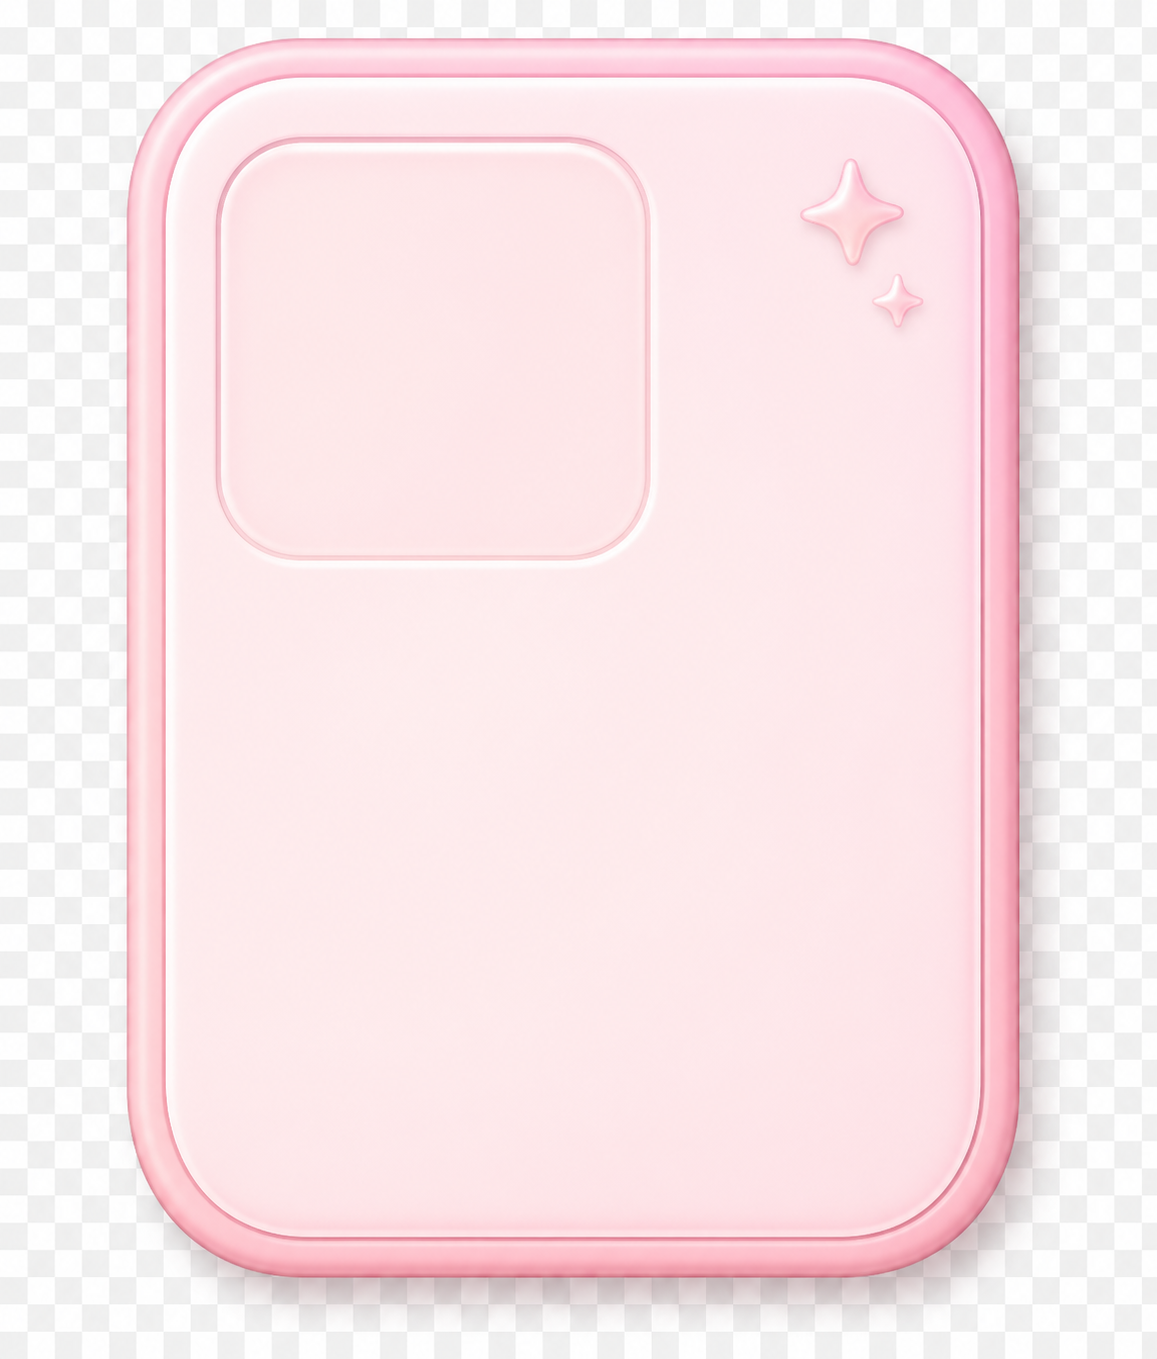
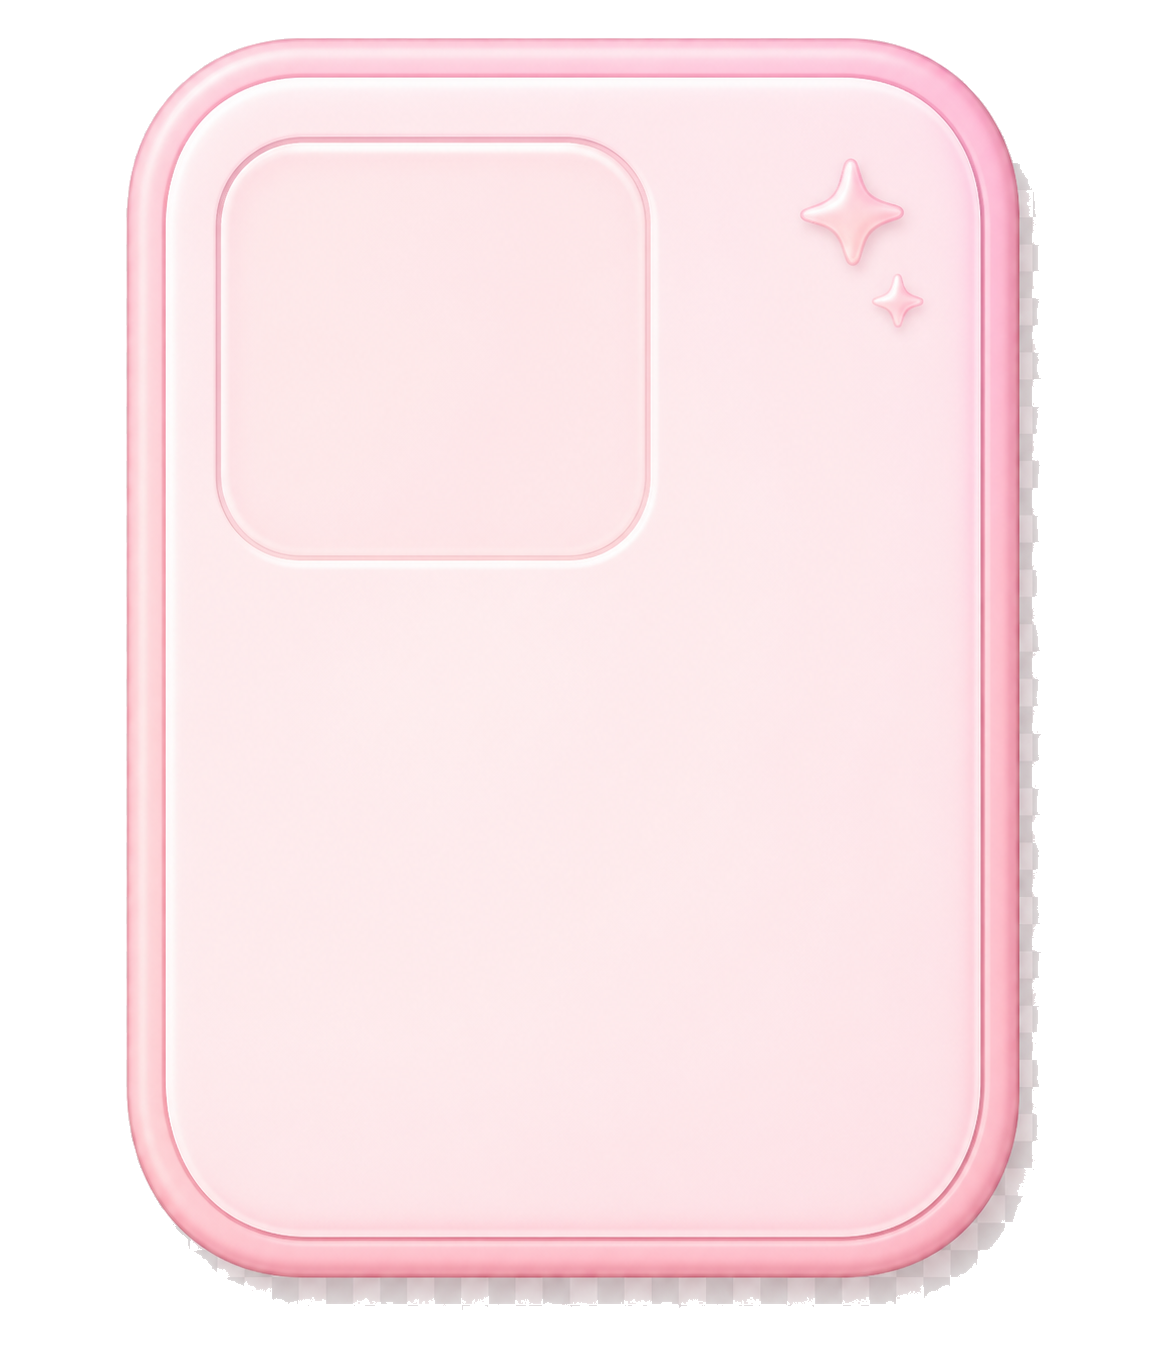
Fix UI PNG transparency

diff --git a/tools/fix_transparency.py b/tools/fix_transparency.py
@@ -1,0 +1,283 @@
+#!/usr/bin/env python3
+from __future__ import annotations
+
+import argparse
+import shutil
+from collections import deque
+from pathlib import Path
+from typing import Any
+
+import numpy as np
+from PIL import Image, ImageFilter
+
+
+RESOURCE_PATHS = [
+    "assets/icons/status/status_hunger.png",
+    "assets/icons/status/status_mood.png",
+    "assets/icons/status/status_energy.png",
+    "assets/icons/status/status_clean.png",
+    "assets/icons/actions/action_feed.png",
+    "assets/icons/actions/action_play.png",
+    "assets/icons/actions/action_pet.png",
+    "assets/icons/actions/action_bath.png",
+    "assets/icons/actions/action_sleep.png",
+    "assets/ui/status/status_card_hunger_bg.png",
+    "assets/ui/status/status_card_mood_bg.png",
+    "assets/ui/status/status_card_energy_bg.png",
+    "assets/ui/status/status_card_clean_bg.png",
+    "assets/ui/actions/action_button_feed_bg.png",
+    "assets/ui/actions/action_button_play_bg.png",
+    "assets/ui/actions/action_button_pet_bg.png",
+    "assets/ui/actions/action_button_bath_bg.png",
+    "assets/ui/actions/action_button_sleep_bg.png",
+    "assets/icons/common/sparkle_gold.png",
+    "assets/icons/common/sparkle_pink.png",
+    "assets/icons/common/sparkle_blue.png",
+    "assets/icons/common/sparkle_green.png",
+    "assets/icons/common/sparkle_purple.png",
+]
+
+
+REPORT_PATH = Path("docs/ui_transparency_fix_report.md")
+
+
+def load_rgba(path: Path) -> Image.Image:
+    return Image.open(path).convert("RGBA")
+
+
+def alpha_extrema(img: Image.Image) -> tuple[int, int]:
+    return img.getchannel("A").getextrema()
+
+
+def color_distance(a: np.ndarray | tuple[int, int, int], b: np.ndarray | tuple[int, int, int]) -> float:
+    aa = np.asarray(a, dtype=np.int32)
+    bb = np.asarray(b, dtype=np.int32)
+    return float(np.sqrt(np.sum((aa - bb) ** 2)))
+
+
+def edge_pixels(arr: np.ndarray, sample_width: int) -> np.ndarray:
+    h, w, _ = arr.shape
+    sw = max(1, min(sample_width, h // 2 or 1, w // 2 or 1))
+    return np.concatenate(
+        [
+            arr[:sw, :, :3].reshape(-1, 3),
+            arr[-sw:, :, :3].reshape(-1, 3),
+            arr[:, :sw, :3].reshape(-1, 3),
+            arr[:, -sw:, :3].reshape(-1, 3),
+        ],
+        axis=0,
+    )
+
+
+def estimate_edge_backgrounds(arr: np.ndarray, sample_width: int = 8) -> list[tuple[int, int, int]]:
+    edges = edge_pixels(arr, sample_width)
+    saturation = edges.max(axis=1) - edges.min(axis=1)
+    light = edges[(saturation <= 8) & (edges.mean(axis=1) >= 210)]
+    if len(light) == 0:
+        return []
+
+    candidates: list[tuple[int, int, int]] = []
+    for q in (5, 20, 35, 50, 65, 80, 95):
+        candidate = tuple(int(v) for v in np.percentile(light, q, axis=0))
+        if all(color_distance(candidate, existing) > 7 for existing in candidates):
+            candidates.append(candidate)
+
+    mean = tuple(int(v) for v in np.mean(light, axis=0))
+    if all(color_distance(mean, existing) > 7 for existing in candidates):
+        candidates.append(mean)
+    return candidates
+
+
+def light_background_mask(rgb: np.ndarray) -> np.ndarray:
+    channel_min = rgb.min(axis=2)
+    channel_max = rgb.max(axis=2)
+    saturation = channel_max - channel_min
+    avg = rgb.mean(axis=2)
+
+    neutral_light = (avg >= 218) & (saturation <= 8)
+    near_white = (channel_min >= 248) & (saturation <= 10)
+    return neutral_light | near_white
+
+
+def make_background_mask(arr: np.ndarray, candidates: list[tuple[int, int, int]], tolerance: int) -> np.ndarray:
+    rgb = arr[:, :, :3]
+    alpha = arr[:, :, 3]
+    mask = alpha < 8
+
+    for candidate in candidates:
+        diff = np.sqrt(
+            np.sum((rgb.astype(np.int32) - np.asarray(candidate, dtype=np.int32)) ** 2, axis=2)
+        )
+        saturation = rgb.max(axis=2) - rgb.min(axis=2)
+        mask |= (diff <= tolerance) & (saturation <= 8)
+
+    mask |= light_background_mask(rgb)
+    return mask
+
+
+def flood_fill_from_edges(mask: np.ndarray) -> np.ndarray:
+    h, w = mask.shape
+    visited = np.zeros((h, w), dtype=bool)
+    queue: deque[tuple[int, int]] = deque()
+
+    for x in range(w):
+        if mask[0, x]:
+            queue.append((0, x))
+        if mask[h - 1, x]:
+            queue.append((h - 1, x))
+    for y in range(h):
+        if mask[y, 0]:
+            queue.append((y, 0))
+        if mask[y, w - 1]:
+            queue.append((y, w - 1))
+
+    while queue:
+        y, x = queue.popleft()
+        if y < 0 or y >= h or x < 0 or x >= w:
+            continue
+        if visited[y, x] or not mask[y, x]:
+            continue
+        visited[y, x] = True
+        queue.append((y - 1, x))
+        queue.append((y + 1, x))
+        queue.append((y, x - 1))
+        queue.append((y, x + 1))
+
+    return visited
+
+
+def soften_alpha(img: Image.Image, background: np.ndarray) -> Image.Image:
+    arr = np.asarray(img).copy()
+    alpha = arr[:, :, 3].copy()
+    alpha[background] = 0
+
+    mask = Image.fromarray((background.astype(np.uint8) * 255), mode="L")
+    blur = np.asarray(mask.filter(ImageFilter.GaussianBlur(radius=1)))
+    edge = (blur > 0) & (~background)
+    alpha[edge] = np.minimum(alpha[edge], 255 - (blur[edge] // 3))
+
+    arr[:, :, 3] = alpha
+    return Image.fromarray(arr, mode="RGBA")
+
+
+def backup_path_for(path: Path) -> Path:
+    return path.with_name(f"{path.name}.bak.png")
+
+
+def process_one(path: Path, check_only: bool, tolerance: int) -> dict[str, Any]:
+    result: dict[str, Any] = {
+        "path": str(path),
+        "exists": path.exists(),
+        "size": None,
+        "alpha_before": None,
+        "alpha_after": None,
+        "edge_background_ratio": None,
+        "background_ratio": None,
+        "opaque_background_ratio": None,
+        "has_fake_bg": False,
+        "fixed": False,
+        "note": "",
+    }
+
+    if not path.exists():
+        result["note"] = "missing"
+        return result
+
+    img = load_rgba(path)
+    result["size"] = img.size
+    result["alpha_before"] = alpha_extrema(img)
+    arr = np.asarray(img)
+    candidates = estimate_edge_backgrounds(arr)
+
+    if not candidates:
+        result["alpha_after"] = result["alpha_before"]
+        result["note"] = "no light edge background candidates"
+        return result
+
+    mask = make_background_mask(arr, candidates, tolerance)
+    connected = flood_fill_from_edges(mask)
+    edge = edge_pixels(np.dstack([connected.astype(np.uint8)] * 4), 2)[:, 0]
+    edge_ratio = float(edge.mean()) if len(edge) else 0.0
+    background_ratio = float(connected.mean())
+    opaque_connected = connected & (arr[:, :, 3] > 245)
+    opaque_edge = edge_pixels(np.dstack([opaque_connected.astype(np.uint8)] * 4), 2)[:, 0]
+    opaque_edge_ratio = float(opaque_edge.mean()) if len(opaque_edge) else 0.0
+    opaque_background_ratio = float(opaque_connected.mean())
+    result["edge_background_ratio"] = f"{edge_ratio:.3f}"
+    result["background_ratio"] = f"{background_ratio:.3f}"
+    result["opaque_background_ratio"] = f"{opaque_background_ratio:.3f}"
+
+    alpha_min, alpha_max = result["alpha_before"]
+    has_opaque_alpha = alpha_min == 255 and alpha_max == 255
+    result["has_fake_bg"] = (
+        opaque_background_ratio > 0.01
+        and (has_opaque_alpha or opaque_edge_ratio > 0.35)
+    )
+
+    if not result["has_fake_bg"]:
+        result["alpha_after"] = result["alpha_before"]
+        result["note"] = "edge-connected fake background not detected"
+        return result
+
+    if check_only:
+        result["alpha_after"] = result["alpha_before"]
+        result["note"] = f"would fix, candidates={candidates}"
+        return result
+
+    backup_path = backup_path_for(path)
+    if not backup_path.exists():
+        shutil.copy2(path, backup_path)
+
+    fixed = soften_alpha(img, connected)
+    fixed.save(path)
+    result["fixed"] = True
+    result["alpha_after"] = alpha_extrema(fixed)
+    result["note"] = f"fixed, backup={backup_path.name}, candidates={candidates}"
+    return result
+
+
+def write_report(results: list[dict[str, Any]], report_path: Path) -> None:
+    report_path.parent.mkdir(parents=True, exist_ok=True)
+    lines = [
+        "# UI 资源透明度修复报告",
+        "",
+        "## 修复结果",
+        "",
+        "| 文件 | 存在 | 尺寸 | 修复前 Alpha | 修复后 Alpha | 边缘背景占比 | 背景占比 | 疑似伪透明 | 已修复 | 备注 |",
+        "|---|---:|---|---|---|---:|---:|---:|---:|---|",
+    ]
+    for result in results:
+        lines.append(
+            "| `{path}` | {exists} | {size} | {alpha_before} | {alpha_after} | {edge_background_ratio} | {background_ratio} | {has_fake_bg} | {fixed} | {note} |".format(
+                **result
+            )
+        )
+    report_path.write_text("\n".join(lines) + "\n", encoding="utf-8")
+
+
+def print_result(result: dict[str, Any]) -> None:
+    print(
+        "{path}: exists={exists}, size={size}, alpha={alpha_before}->{alpha_after}, "
+        "fake_bg={has_fake_bg}, fixed={fixed}, note={note}".format(**result)
+    )
+
+
+def main() -> None:
+    parser = argparse.ArgumentParser(description="Fix edge-connected fake transparent backgrounds in UI PNGs.")
+    parser.add_argument("--check-only", action="store_true", help="Inspect resources without modifying PNG files.")
+    parser.add_argument("--tolerance", type=int, default=40, help="RGB distance tolerance for background matching.")
+    args = parser.parse_args()
+
+    results = []
+    for resource in RESOURCE_PATHS:
+        result = process_one(Path(resource), check_only=args.check_only, tolerance=args.tolerance)
+        results.append(result)
+        print_result(result)
+
+    if not args.check_only:
+        write_report(results, REPORT_PATH)
+        print(f"Report written to {REPORT_PATH}")
+
+
+if __name__ == "__main__":
+    main()

diff --git a/docs/ui_transparency_fix_report.md b/docs/ui_transparency_fix_report.md
@@ -1,0 +1,29 @@
+# UI 资源透明度修复报告
+
+## 修复结果
+
+| 文件 | 存在 | 尺寸 | 修复前 Alpha | 修复后 Alpha | 边缘背景占比 | 背景占比 | 疑似伪透明 | 已修复 | 备注 |
+|---|---:|---|---|---|---:|---:|---:|---:|---|
+| `assets/icons/status/status_hunger.png` | True | (1254, 1254) | (255, 255) | (0, 255) | 1.000 | 0.624 | True | True | fixed, backup=status_hunger.png.bak.png, candidates=[(240, 240, 240), (245, 245, 245), (254, 253, 254)] |
+| `assets/icons/status/status_mood.png` | True | (1254, 1254) | (255, 255) | (0, 255) | 1.000 | 0.528 | True | True | fixed, backup=status_mood.png.bak.png, candidates=[(246, 245, 245), (250, 250, 250), (255, 254, 254)] |
+| `assets/icons/status/status_energy.png` | True | (1254, 1254) | (255, 255) | (0, 255) | 1.000 | 0.676 | True | True | fixed, backup=status_energy.png.bak.png, candidates=[(243, 243, 242), (254, 253, 253), (248, 248, 248)] |
+| `assets/icons/status/status_clean.png` | True | (1254, 1254) | (255, 255) | (0, 255) | 1.000 | 0.654 | True | True | fixed, backup=status_clean.png.bak.png, candidates=[(242, 242, 241), (253, 253, 253), (248, 247, 247)] |
+| `assets/icons/actions/action_feed.png` | True | (1254, 1254) | (255, 255) | (0, 255) | 1.000 | 0.517 | True | True | fixed, backup=action_feed.png.bak.png, candidates=[(241, 240, 240), (252, 252, 252), (247, 246, 246)] |
+| `assets/icons/actions/action_play.png` | True | (1254, 1254) | (255, 255) | (0, 255) | 1.000 | 0.754 | True | True | fixed, backup=action_play.png.bak.png, candidates=[(240, 240, 240), (253, 253, 252), (247, 246, 246)] |
+| `assets/icons/actions/action_pet.png` | True | (1254, 1254) | (255, 255) | (0, 255) | 1.000 | 0.603 | True | True | fixed, backup=action_pet.png.bak.png, candidates=[(240, 240, 240), (252, 252, 252), (247, 246, 246)] |
+| `assets/icons/actions/action_bath.png` | True | (1254, 1254) | (255, 255) | (0, 255) | 1.000 | 0.642 | True | True | fixed, backup=action_bath.png.bak.png, candidates=[(243, 243, 243), (253, 253, 253), (248, 248, 248)] |
+| `assets/icons/actions/action_sleep.png` | True | (1254, 1254) | (255, 255) | (0, 255) | 1.000 | 0.750 | True | True | fixed, backup=action_sleep.png.bak.png, candidates=[(245, 245, 244), (253, 253, 253)] |
+| `assets/ui/status/status_card_hunger_bg.png` | True | (2172, 724) | (255, 255) | (0, 255) | 1.000 | 0.263 | True | True | fixed, backup=status_card_hunger_bg.png.bak.png, candidates=[(242, 242, 242), (253, 253, 253), (248, 248, 248)] |
+| `assets/ui/status/status_card_mood_bg.png` | True | (2172, 724) | (255, 255) | (0, 255) | 1.000 | 0.325 | True | True | fixed, backup=status_card_mood_bg.png.bak.png, candidates=[(243, 243, 242), (250, 250, 250), (255, 255, 255)] |
+| `assets/ui/status/status_card_energy_bg.png` | True | (2172, 724) | (255, 255) | (0, 255) | 1.000 | 0.275 | True | True | fixed, backup=status_card_energy_bg.png.bak.png, candidates=[(245, 245, 245), (254, 254, 254)] |
+| `assets/ui/status/status_card_clean_bg.png` | True | (2172, 724) | (255, 255) | (0, 255) | 1.000 | 0.287 | True | True | fixed, backup=status_card_clean_bg.png.bak.png, candidates=[(245, 244, 244), (251, 251, 251)] |
+| `assets/ui/actions/action_button_feed_bg.png` | True | (1157, 1359) | (255, 255) | (0, 255) | 1.000 | 0.272 | True | True | fixed, backup=action_button_feed_bg.png.bak.png, candidates=[(241, 241, 241), (249, 249, 249), (254, 254, 254)] |
+| `assets/ui/actions/action_button_play_bg.png` | True | (1157, 1359) | (255, 255) | (0, 255) | 1.000 | 0.394 | True | True | fixed, backup=action_button_play_bg.png.bak.png, candidates=[(235, 235, 235), (245, 245, 245), (254, 254, 254)] |
+| `assets/ui/actions/action_button_pet_bg.png` | True | (1157, 1359) | (255, 255) | (0, 255) | 1.000 | 0.253 | True | True | fixed, backup=action_button_pet_bg.png.bak.png, candidates=[(238, 238, 238), (246, 246, 246), (254, 254, 254)] |
+| `assets/ui/actions/action_button_bath_bg.png` | True | (1157, 1359) | (255, 255) | (0, 255) | 1.000 | 0.288 | True | True | fixed, backup=action_button_bath_bg.png.bak.png, candidates=[(239, 239, 238), (247, 247, 247), (254, 254, 254)] |
+| `assets/ui/actions/action_button_sleep_bg.png` | True | (1157, 1359) | (255, 255) | (0, 255) | 1.000 | 0.396 | True | True | fixed, backup=action_button_sleep_bg.png.bak.png, candidates=[(243, 243, 242), (251, 251, 251)] |
+| `assets/icons/common/sparkle_gold.png` | True | (1254, 1254) | (255, 255) | (0, 255) | 1.000 | 0.845 | True | True | fixed, backup=sparkle_gold.png.bak.png, candidates=[(242, 241, 241), (248, 248, 248), (254, 254, 254)] |
+| `assets/icons/common/sparkle_pink.png` | True | (1254, 1254) | (255, 255) | (0, 255) | 1.000 | 0.917 | True | True | fixed, backup=sparkle_pink.png.bak.png, candidates=[(244, 244, 244), (249, 249, 249), (254, 254, 254)] |
+| `assets/icons/common/sparkle_blue.png` | True | (1254, 1254) | (255, 255) | (0, 255) | 1.000 | 0.855 | True | True | fixed, backup=sparkle_blue.png.bak.png, candidates=[(244, 244, 244), (253, 253, 253), (249, 248, 248)] |
+| `assets/icons/common/sparkle_green.png` | True | (1254, 1254) | (255, 255) | (0, 255) | 1.000 | 0.880 | True | True | fixed, backup=sparkle_green.png.bak.png, candidates=[(245, 245, 244), (251, 251, 251)] |
+| `assets/icons/common/sparkle_purple.png` | True | (1254, 1254) | (255, 255) | (0, 255) | 1.000 | 0.873 | True | True | fixed, backup=sparkle_purple.png.bak.png, candidates=[(244, 244, 244), (254, 254, 254), (249, 249, 249)] |
